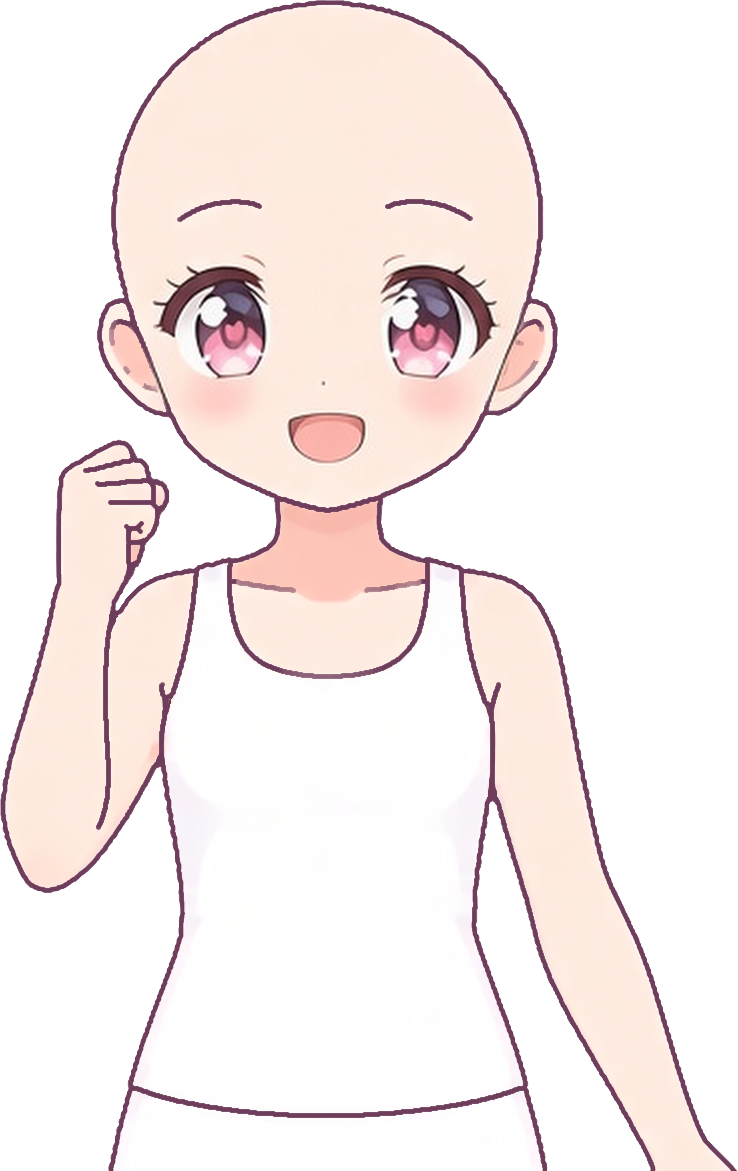
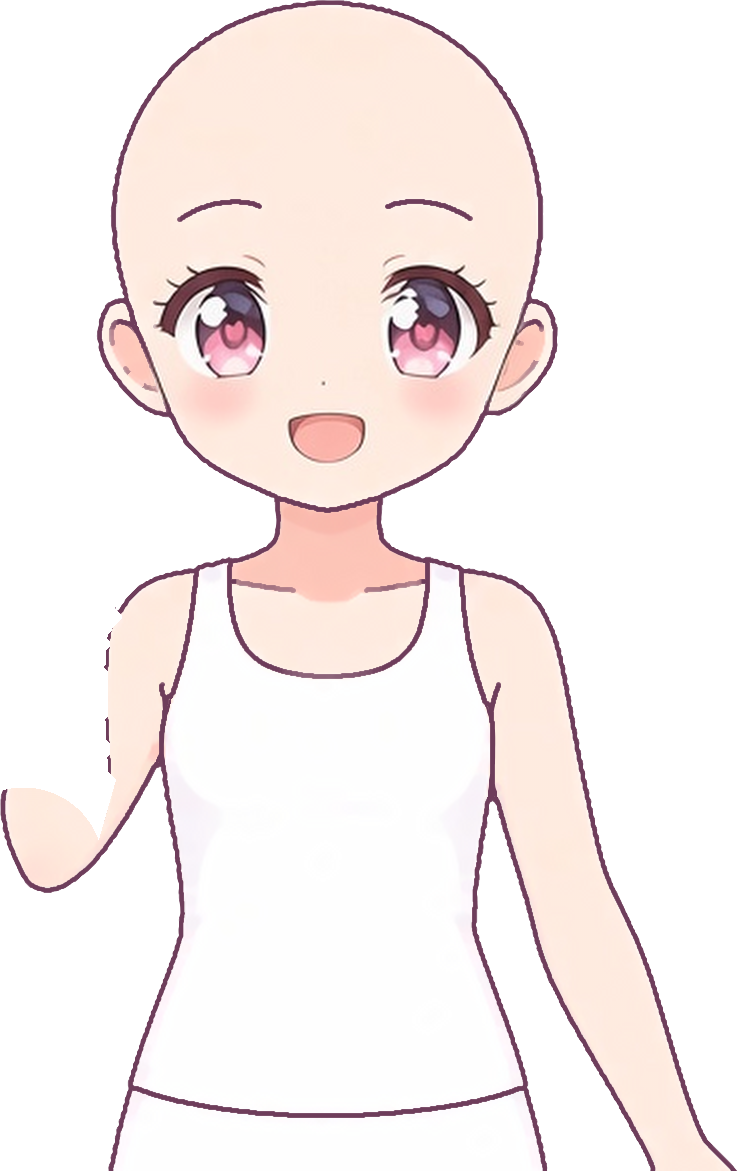
v3: 마이크 든 아래팔 restPose -34°로 내림(두 눈 보임), 옛 팔 자리 머리는 GenerateImage 팔 내린 머리 그림으로 채움

Changed region(s): [[0.0, 0.3689, 0.2493, 0.7071]]

diff --git a/src/v3demo/motion.js b/src/v3demo/motion.js
@@ -11,6 +11,8 @@ export function samplePose(skel, now, { waveStart = null } = {}) {
   const A = skel.animations, pose = {}
   const br = A.breathe, tb = now % br.period
   pose.chest = { sy: lerpKeys(br.bones.chest.scale, tb, 'y') }
+  // 기본 자세 보정(skeleton.json restPose): 마이크 든 아래팔을 팔꿈치에서 내려 두 눈이 다 보이게
+  for (const [b, v] of Object.entries(skel.restPose || {})) pose[b] = { ...(pose[b] || {}), ...v }
   let waving = false, waveAngle = 0
   if (waveStart != null) {
     const tw = now - waveStart, w = A.wave

diff --git a/tools/v3/build_v3.py b/tools/v3/build_v3.py
@@ -89,8 +89,22 @@ WAVE_ANGLES=[-10,-7.5,-5,-2.5,0,2.5,5,7.5,10]
 GRIP=(259,309); ELBOW_R=(206,494)   # 마이크 쥔 손 가운데, 그 팔 팔꿈치    # 흔드는 팔 팔꿈치(회전축), 이 선 위가 아래팔 조각
 if __name__=='__main__':
     yy,xx=np.mgrid[0:H*S,0:W*S]/S
+    # 마이크 든 팔을 restPose로 내리면 옛 아래팔·주먹 자리가 비므로, 팔을 내린 머리 그림(GenerateImage: hair_armdown.jpg)의 머리로 그 자리만 바꿔 넣는다
+    _ad=None
+    def armdown(rgb,al):
+        nonlocal_ad=globals().setdefault('_ADN',None)
+        if globals()['_ADN'] is None: globals()['_ADN']=load('hair_armdown.jpg')
+        r2,a2=globals()['_ADN']
+        yy0,xx0=np.mgrid[0:H,0:W]
+        def sd(a,b):
+            a=np.array(a,float);b=np.array(b,float);d=b-a;t=np.clip(((xx0-a[0])*d[0]+(yy0-a[1])*d[1])/(d@d),0,1); return np.hypot(xx0-a[0]-t*d[0],yy0-a[1]-t*d[1])
+        m=((sd(GRIP,ELBOW_R)<46)|((xx0>FIST[0]-14)&(xx0<FIST[2]+6)&(yy0>FIST[1]-14)&(yy0<FIST[3]+10)))&(xx0<282)&(yy0<ELBOW_R[1]-40)
+        m=cv2.GaussianBlur(m.astype(np.float32),(0,0),3)
+        return rgb*(1-m[...,None])+r2*m[...,None], al*(1-m)+a2*m
     def lay(name, keep=KEEP, align=True, redraw=True):
-        rgb,al=load(name,align); return hires(rgb,al,keep,redraw), rgb, al
+        rgb,al=load(name,align)
+        if name.startswith('hair'): rgb,al=armdown(rgb,al)
+        return hires(rgb,al,keep,redraw), rgb, al
     body,brgb,bal=lay('body.jpg',align=False); outfit,orgb,oal=lay('outfit.jpg')
     bw,_,_=lay('body_wave.jpg'); ow,owrgb,_=lay('outfit_wave.jpg'); eyes,_,_=lay('eyes_closed.jpg'); hair,hrgb,hal=lay('hair.jpg',redraw=False)
     up=lambda m: cv2.resize(m.astype(np.float32),(W*S,H*S),interpolation=cv2.INTER_LINEAR)

diff --git a/tools/v3/touchup.py b/tools/v3/touchup.py
@@ -105,6 +105,17 @@ def sync_twins():
         if W.shape[1]>ww:  # 쉬는 층보다 넓은 부분은 상자 밖이면 비움
             yy2,xx2=np.mgrid[0:W.shape[0],ww:W.shape[1]]; o2=~((xx2+tw['x']>=x0)&(yy2+tw['y']>=y0)&(yy2+tw['y']<y1)); W[:,ww:][o2]=0
         save(w,W)
+def cut_rest_forearm():
+    """마이크 든 아래팔은 restPose로 팔꿈치에서 내려 그리므로, 몸 그림 속 옛 아래팔·주먹(hand_r 자리)을 지운다.
+    그 뒤는 팔 내린 머리 그림(hair_armdown.jpg)으로 채운 머리가 보인다. 팔꿈치 둘레·얼굴(x>=560)은 남김. 지우기만."""
+    h=SK['hand_r']['hand_r']; H=ndimage.binary_dilation(load('hand_r')[...,3]>0,iterations=4)
+    ex,ey=412,988
+    for n in ('body_upper','body_upper_wave'):
+        t=SK['body_upper'][n]; a=load(n); m=np.zeros(a.shape[:2],bool)
+        ys,xs=np.where(H); ys=ys+h['y']-t['y']; xs=xs+h['x']-t['x']; ok=(ys>=0)&(xs>=0)&(ys<a.shape[0])&(xs<a.shape[1]); m[ys[ok],xs[ok]]=True
+        yy,xx=np.mgrid[0:a.shape[0],0:a.shape[1]]; X=xx+t['x']; Y=yy+t['y']
+        m&=~(np.hypot(X-ex,Y-ey)<80)&(X<560)
+        a[...,3]=np.where(m,0,a[...,3]); save(n,a)
 if __name__=='__main__':
     by={}
     for n,b in ERASE: by.setdefault(n,[]).append(b)
@@ -120,5 +131,6 @@ if __name__=='__main__':
         a=load(n); yy,xx=np.mgrid[0:a.shape[0],0:a.shape[1]]
         bx=(xx+t['x']>=x0-8)&(yy+t['y']>=y0)&(yy+t['y']<y1)   # 흔드는 팔이 비켜 가며 드러나는 머리 부분만
         save(n,fill_slivers(a,box=bx))
+    cut_rest_forearm()
     sync_twins()
     print('touchup ok')

diff --git a/tools/v3/make_skeleton.py b/tools/v3/make_skeleton.py
@@ -26,6 +26,7 @@ sk={'skeleton':{'spine':'4.2-like','width':1440,'height':2560,'scale':S,'stagePa
  }}],
  'outfits':{'basic':{'fit_lower':'basic_lower','fit_upper':'basic_upper','wave':{'fit_lower':'basic_lower_wave','fit_upper':'basic_upper_wave'}}},
  'props':{'mic':{'slot':'prop','bone':'prop_r','note':'손잡이 가운데(grip)를 주먹 가운데에 둔다. 주먹·아래팔 조각(hand_r)이 그 위에 그려져 손잡이를 가린다'}},
+ 'restPose':{'forearm_r':{'rotate':-34}},   # 마이크 든 아래팔을 팔꿈치에서 내림(마이크 머리가 턱 높이, 두 눈 다 보임). 옛 팔 자리 머리는 hair_armdown.jpg
  'animations':{
    'blink':{'period':4.2,'slots':{'eyes':{'attachment':[{'time':0,'name':None},{'time':3.95,'name':'eyes_closed'},{'time':4.1,'name':None}]}}},
    'breathe':{'period':3.2,'bones':{'chest':{'scale':[{'time':0,'y':1},{'time':1.6,'y':1.006},{'time':3.2,'y':1}]}}},
